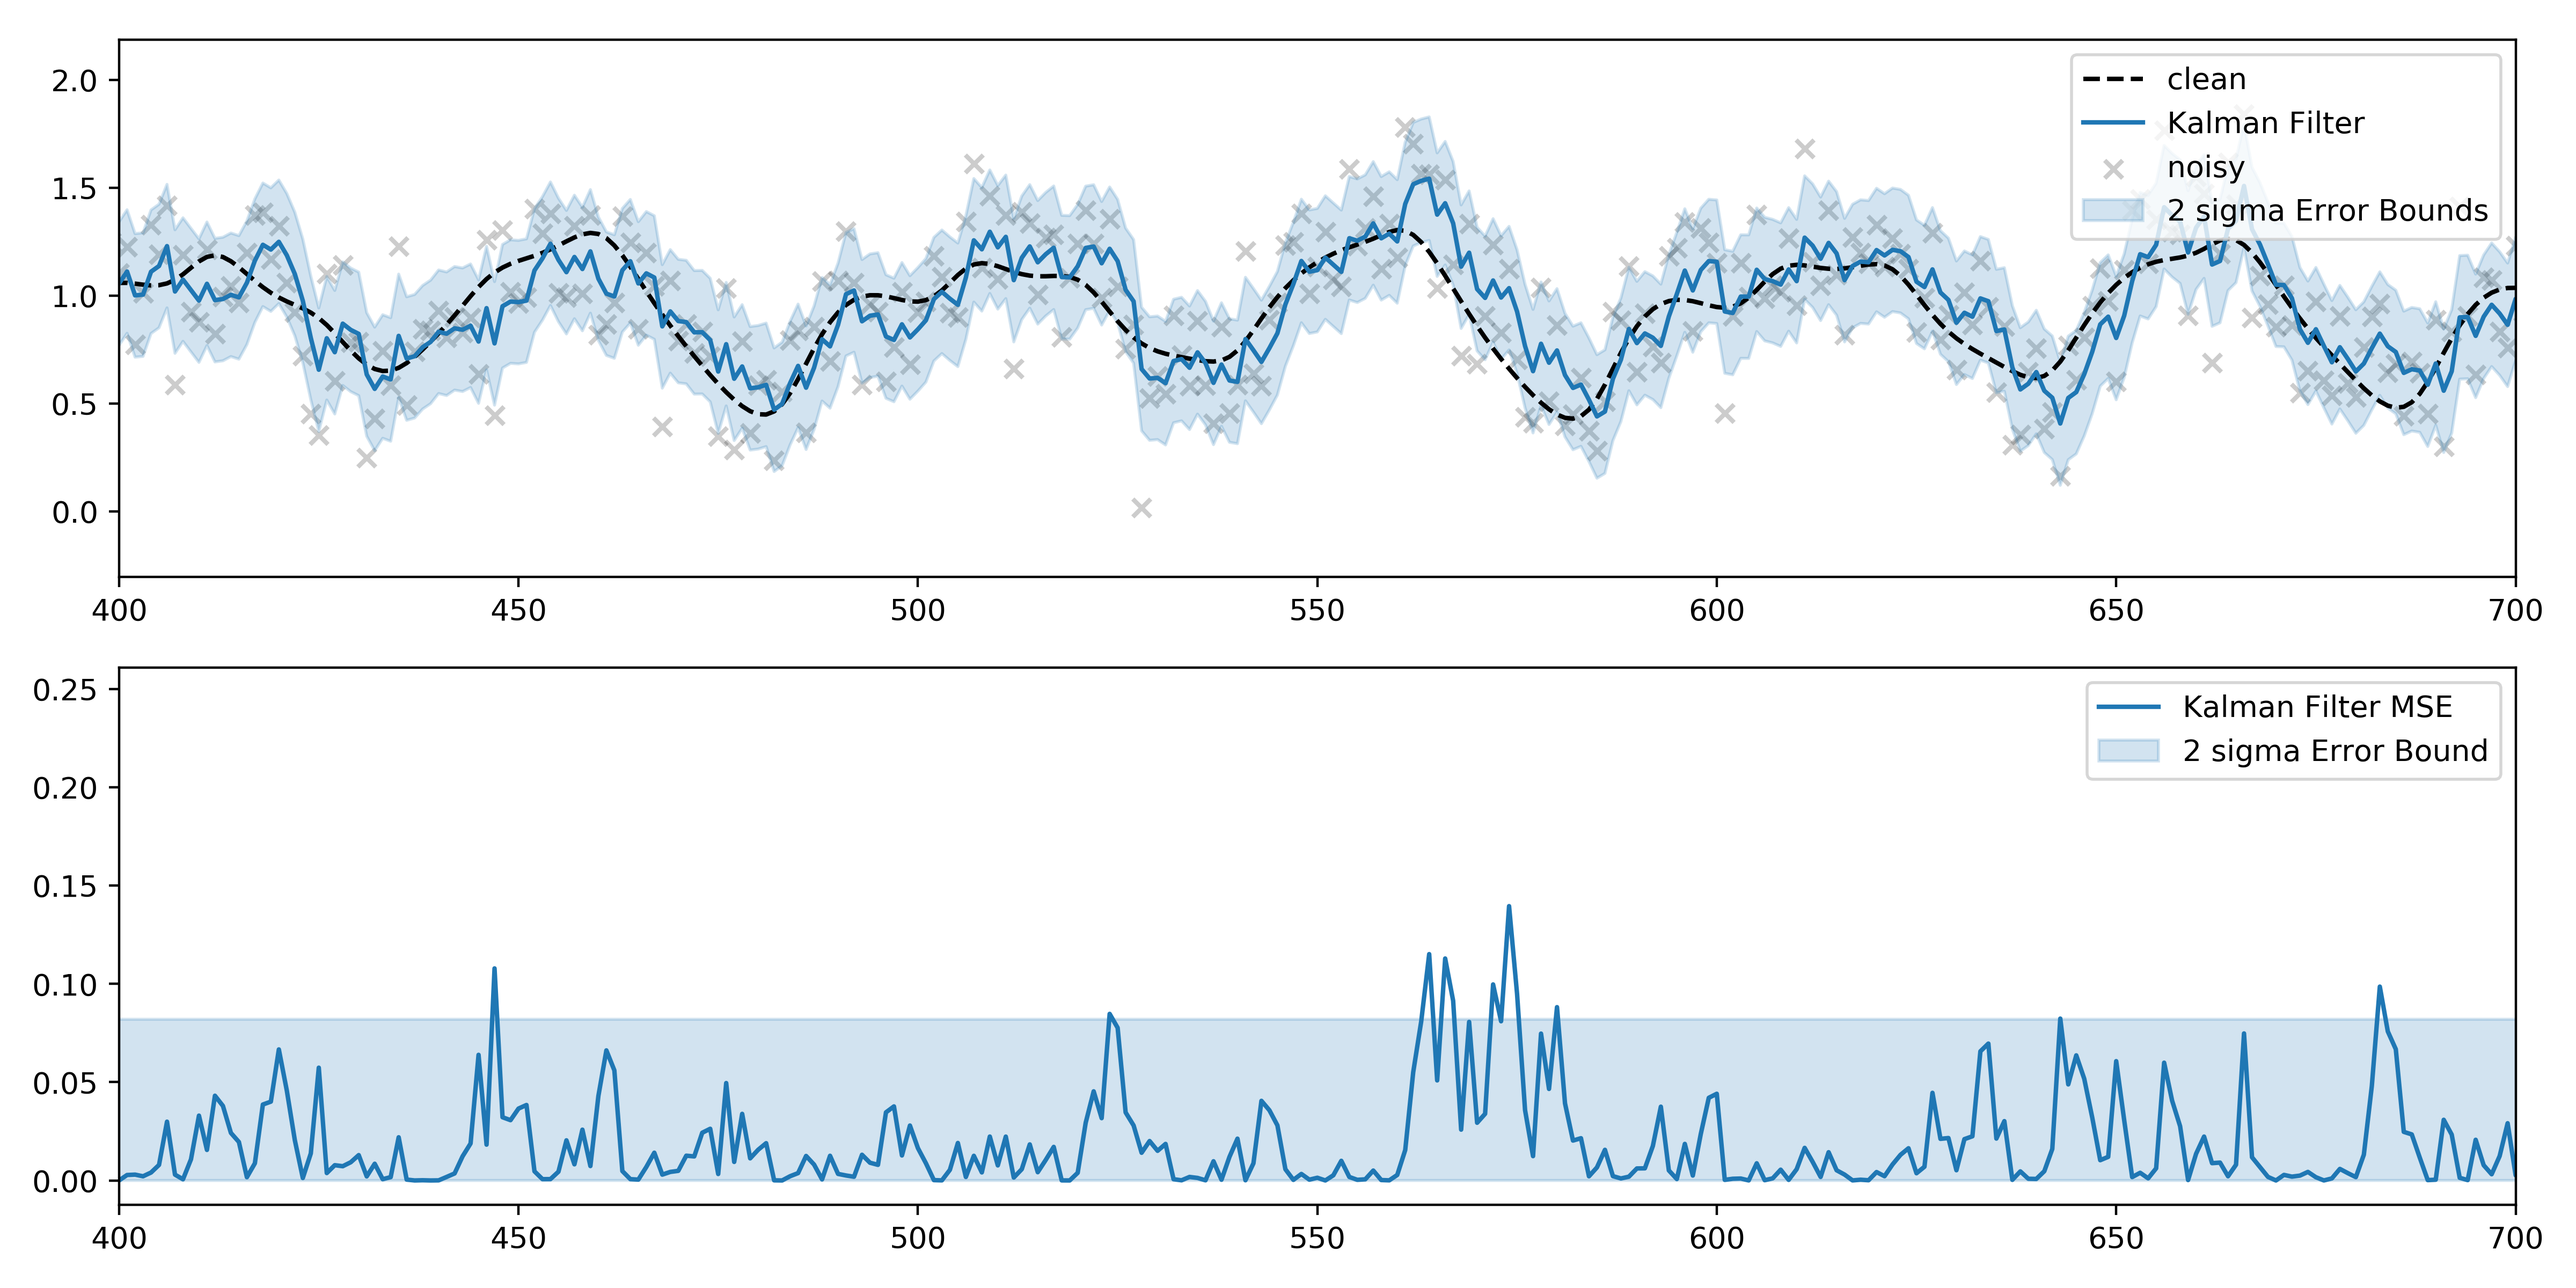
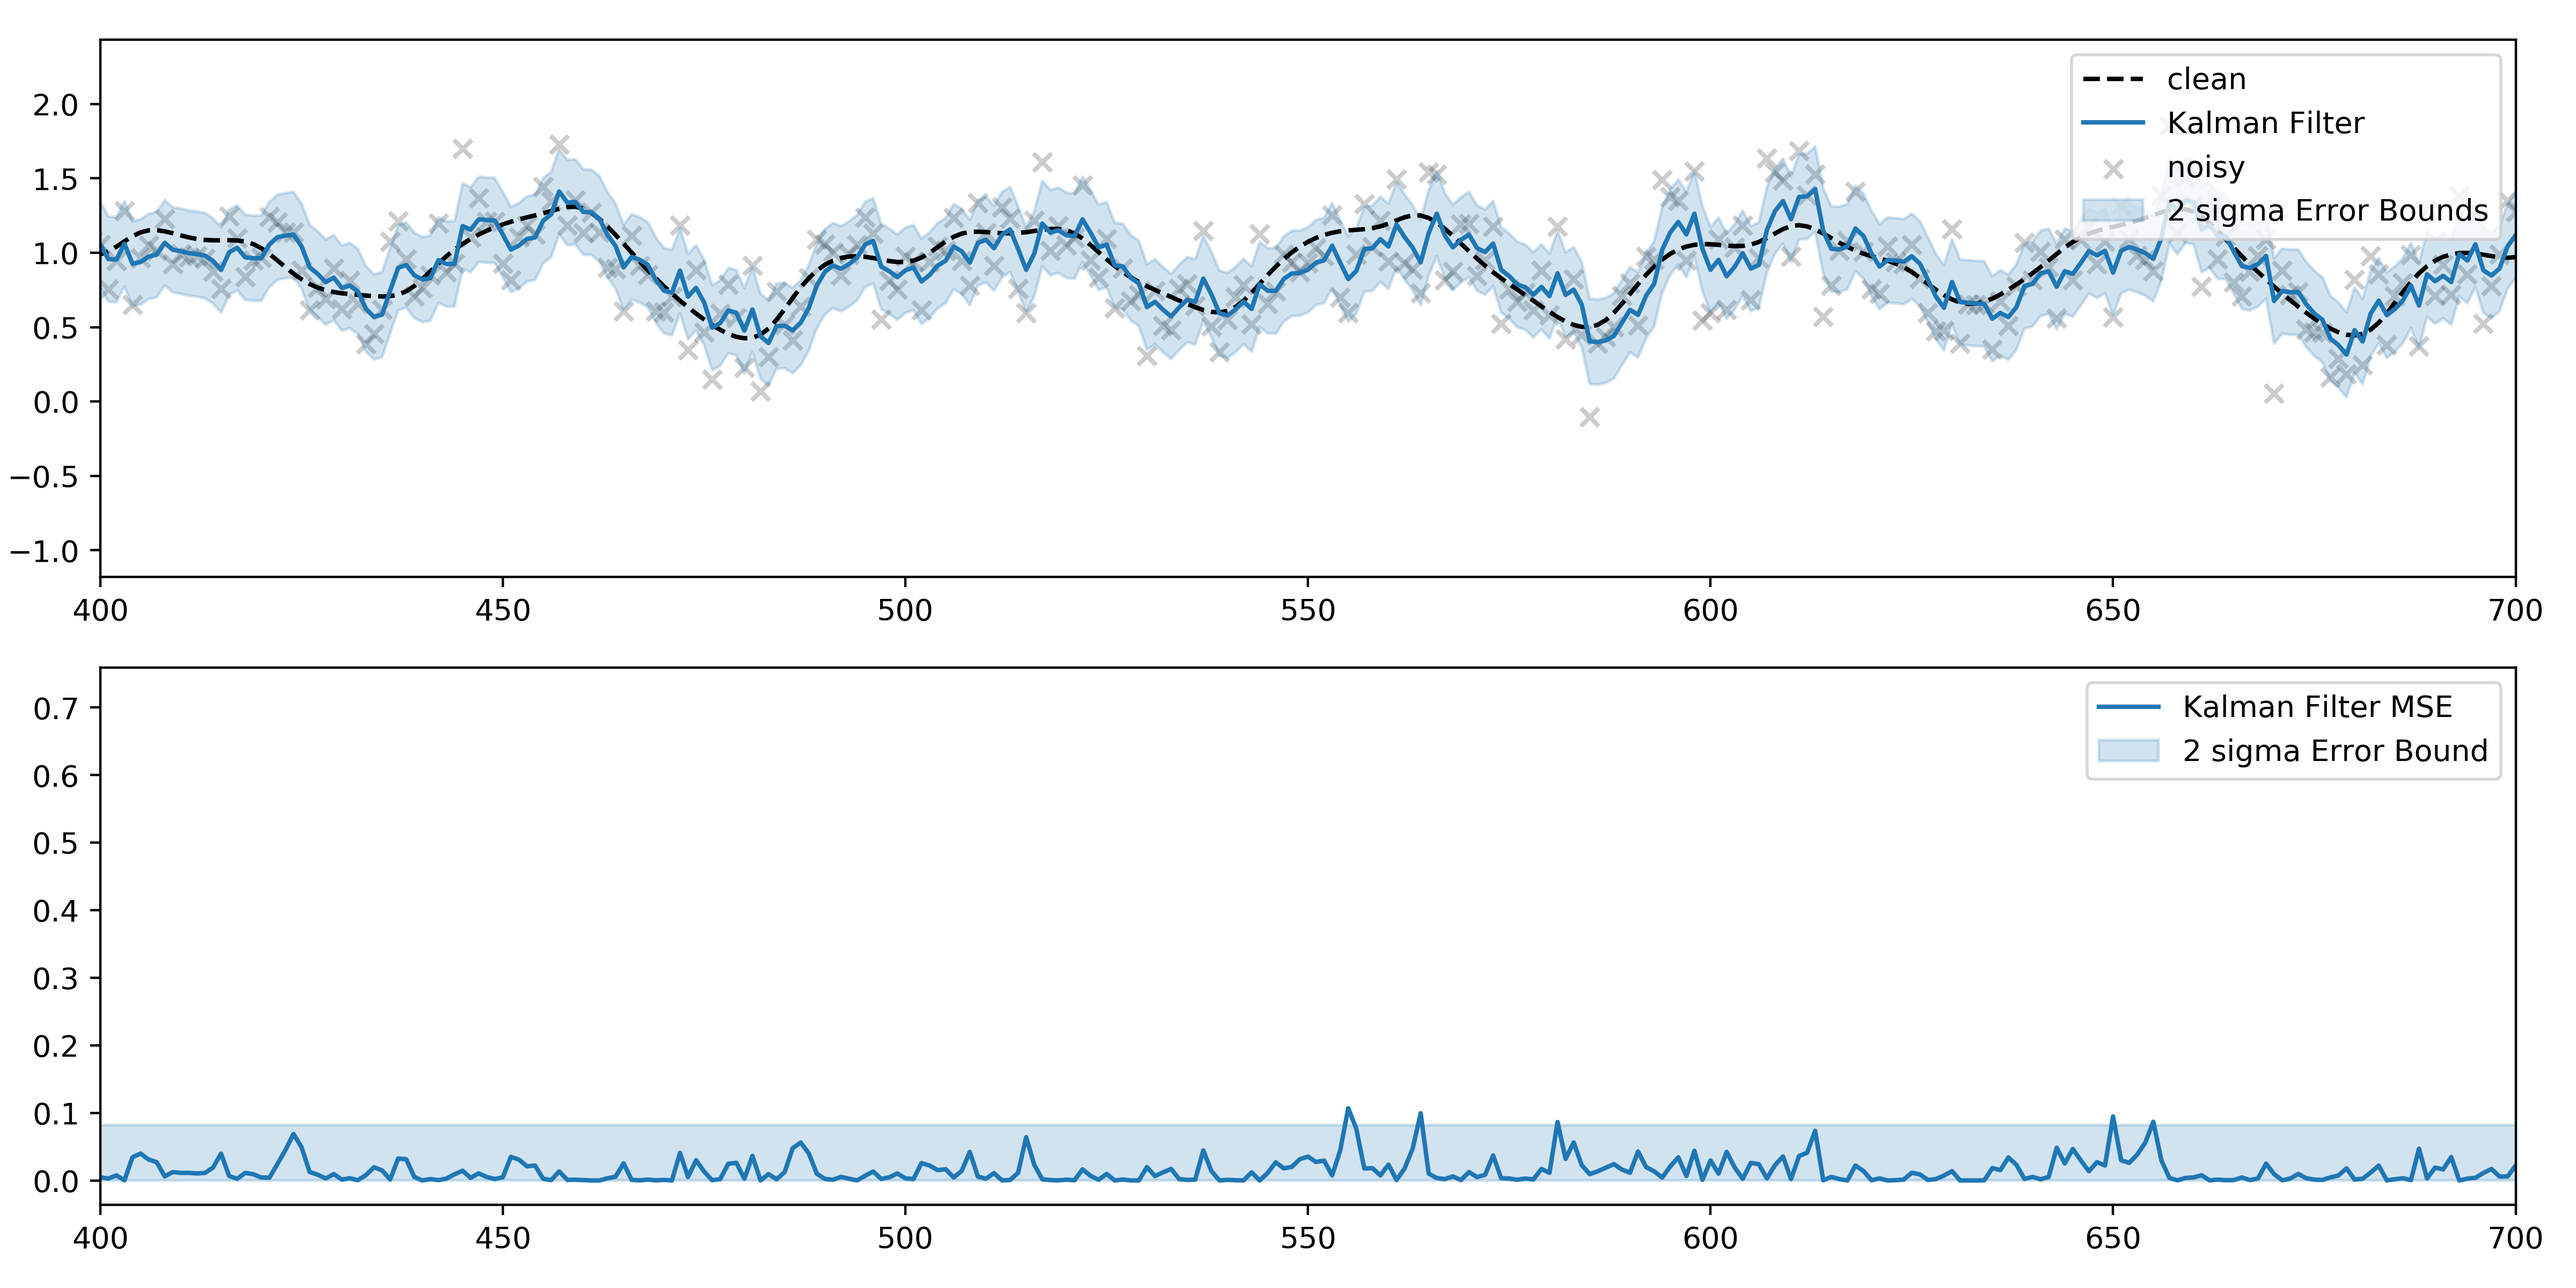
.

diff --git a/MackeyGlassBrownianFilter.py b/MackeyGlassBrownianFilter.py
@@ -17,9 +17,8 @@ R = [[r * r]]
 est_x = [[0.0]]
 est_p = [[[10.0]]]
 
-timedelta = 1.0
-
-t,b = np.loadtxt('mgdata.txt').T
+t,b = np.loadtxt('mgdata.txt', delimiter=',')[::10].T
+timedelta = np.mean(np.diff(t))
 
 plt.figure(figsize=(12,6))
 plt.subplot(211)
